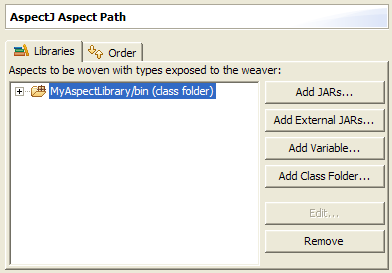
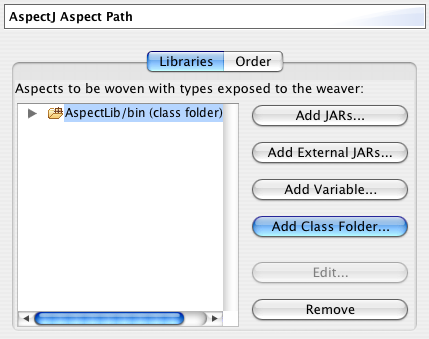
updated screenshot for n&n

Changed region(s): [[0.0, 0.1465, 1.0, 0.9963], [0.0, 0.0, 1.0, 0.1172]]

diff --git a/org.eclipse.ajdt.ui/doc/whatsnew120M3/newnoteworthy.html b/org.eclipse.ajdt.ui/doc/whatsnew120M3/newnoteworthy.html
@@ -280,7 +280,7 @@
       from another project without requiring that other project to send its class files to
       an output jar.</p>
     
-      <img src="aspectpath.png" width="392" height="273">
+      <img src="aspectpath.png" width="429" height="339">
     </td>
   </tr>
 
